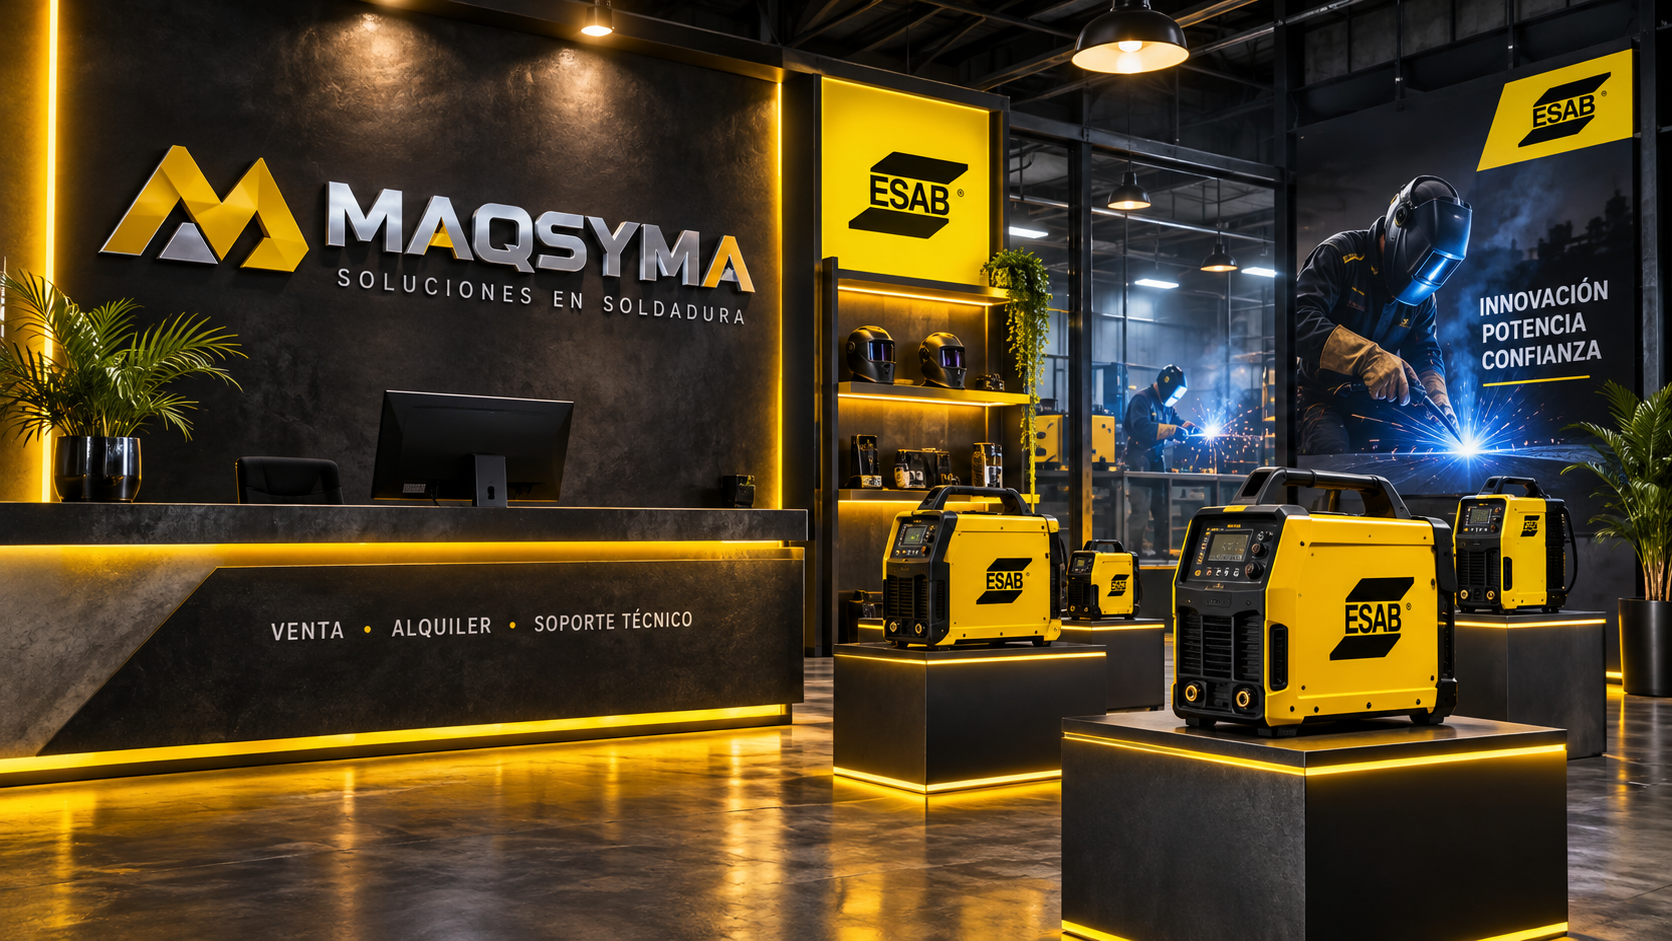
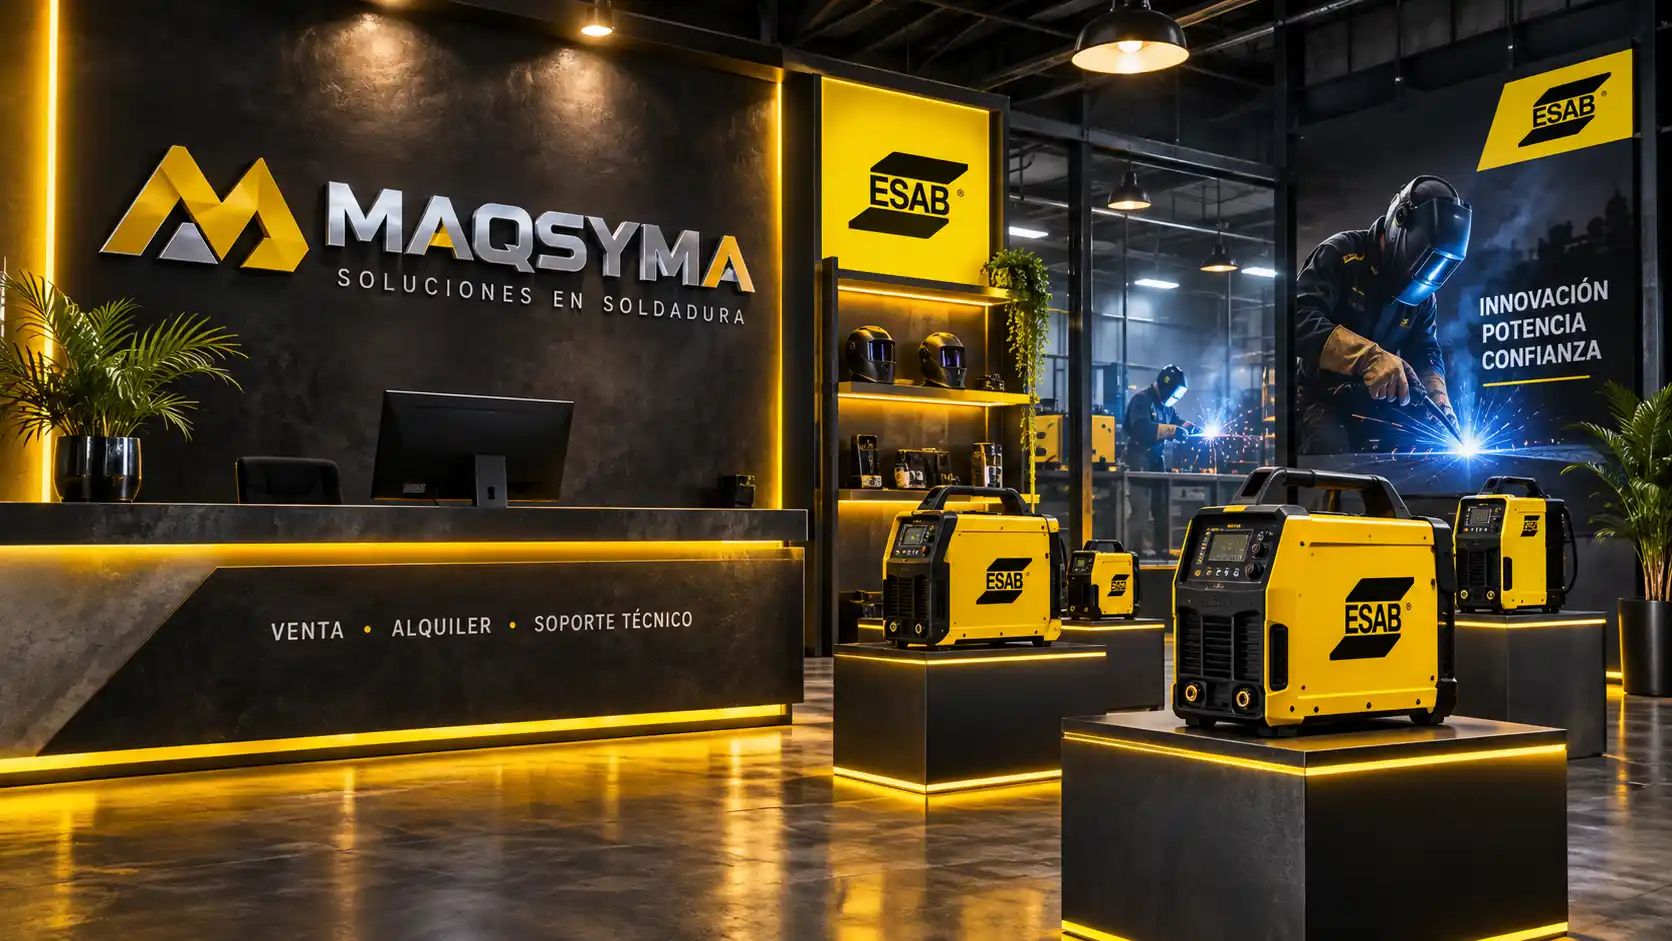
mejora landingpage

diff --git a/src/components/scenes/WorkshopExperience.tsx b/src/components/scenes/WorkshopExperience.tsx
@@ -1,7 +1,8 @@
 "use client";
 
 import React, { useRef, useEffect, useState, useCallback } from "react";
-import { scenes, Scene } from "@/config/scenes";
+import Image from "next/image";
+import { scenes } from "@/config/scenes";
 import { useSceneProgress } from "@/lib/scroll/useSceneProgress";
 import { applyScenes } from "@/lib/scroll/applyScenes";
 import { ScenePlaceholder } from "./ScenePlaceholder";
@@ -98,7 +99,31 @@ export const WorkshopExperience: React.FC = () => {
                 visibility: idx === 0 ? "visible" : "hidden",
               }}
             >
-              <ScenePlaceholder sceneId={scene.id} process={scene.process} />
+              {scene.image.placeholder ? (
+                <ScenePlaceholder sceneId={scene.id} process={scene.process} />
+              ) : (
+                <div className="relative w-full h-full">
+                  <Image
+                    src={scene.image.desktop}
+                    alt={scene.image.alt}
+                    fill
+                    priority={idx === 0}
+                    className="object-cover object-center"
+                    sizes="100vw"
+                  />
+                  {/* Overlay multinivel de alto contraste para máxima legibilidad tipográfica */}
+                  <div className="absolute inset-0 bg-gradient-to-t from-[var(--color-carbon)] via-[var(--color-carbon)]/70 to-[var(--color-carbon)]/85" />
+                  <div className="absolute inset-0 bg-black/35" />
+                  {/* Textura sutil técnica sobrepuesta */}
+                  <div
+                    className="absolute inset-0 opacity-[0.05] pointer-events-none"
+                    style={{
+                      backgroundImage: `radial-gradient(var(--color-plata) 1px, transparent 1px)`,
+                      backgroundSize: "28px 28px",
+                    }}
+                  />
+                </div>
+              )}
             </div>
           ))}
         </div>
@@ -123,53 +148,94 @@ export const WorkshopExperience: React.FC = () => {
                 className={`${
                   isJsReady
                     ? "absolute max-w-3xl w-full px-6 text-center will-change-transform will-change-opacity pointer-events-auto"
-                    : "relative p-8 rounded-xl bg-[var(--color-grafito)] border border-[var(--color-grafito-2)]"
+                    : "relative p-8 rounded-2xl bg-[var(--color-grafito)]/90 border border-[var(--color-grafito-2)]"
                 }`}
                 style={{
                   opacity: isJsReady ? (idx === 0 ? 1 : 0) : 1,
                   visibility: isJsReady ? (idx === 0 ? "visible" : "hidden") : "visible",
                 }}
               >
-                <div className="inline-flex items-center gap-2 px-3 py-1 rounded bg-[var(--color-grafito)]/80 border border-[var(--color-grafito-2)] text-xs text-[var(--color-oro-claro)] uppercase tracking-wider mb-3">
-                  <span className="w-1.5 h-1.5 rounded-full bg-[var(--color-oro)]" />
-                  {scene.label} · {scene.process}
-                </div>
-
-                <h2 className="font-['Montserrat',sans-serif] text-3xl sm:text-5xl font-extrabold tracking-tight text-[var(--color-plata)] leading-tight mb-4 drop-shadow-md">
-                  {scene.title}
-                </h2>
-
-                <p className="text-base sm:text-xl text-[var(--color-gris)] max-w-xl mx-auto leading-relaxed mb-6">
-                  {scene.text}
-                </p>
-
-                {scene.cta && (
-                  <div className="pt-2">
-                    <a
-                      href={whatsappUrl}
-                      target="_blank"
-                      rel="noopener noreferrer"
-                      className="inline-flex items-center gap-2 rounded-md bg-[var(--color-oro)] px-5 py-2.5 text-xs sm:text-sm font-bold text-[var(--color-carbon)] transition-all duration-200 hover:bg-[var(--color-oro-claro)] hover:shadow-[0_0_20px_rgba(201,162,74,0.3)] active:scale-95"
-                    >
-                      <span>{scene.cta.label}</span>
-                      <span>→</span>
-                    </a>
+                {/* Tarjeta con Glassmorphism oscuro técnico para contraste impecable */}
+                <div className="p-6 sm:p-10 rounded-2xl bg-[var(--color-carbon)]/85 sm:bg-[var(--color-carbon)]/75 backdrop-blur-md border border-[var(--color-grafito-2)]/90 shadow-2xl">
+                  {/* Píldora de estado con credibilidad técnica / ESAB */}
+                  <div className="inline-flex items-center gap-2 px-3.5 py-1.5 rounded-full bg-[var(--color-grafito)]/90 border border-[var(--color-grafito-2)] text-xs text-[var(--color-oro-claro)] uppercase tracking-wider mb-4 shadow-sm">
+                    <span className="w-2 h-2 rounded-full bg-[var(--color-oro)] animate-pulse" />
+                    <span className="font-semibold">{scene.label}</span>
+                    <span className="opacity-40">|</span>
+                    <span className="font-mono text-[11px] text-[var(--color-gris)]">{scene.process}</span>
+                    <span className="hidden sm:inline-flex items-center px-1.5 py-0.5 rounded bg-[var(--color-oro)]/15 text-[10px] font-bold text-[var(--color-oro)] ml-1 border border-[var(--color-oro)]/30">
+                      ESAB OFICIAL
+                    </span>
                   </div>
-                )}
+
+                  {/* Titular */}
+                  <h2 className="font-['Montserrat',sans-serif] text-3xl sm:text-5xl font-extrabold tracking-tight text-[var(--color-plata)] leading-tight mb-4 drop-shadow-lg">
+                    {scene.title}
+                  </h2>
+
+                  {/* Descripción técnica */}
+                  <p className="text-base sm:text-lg text-[var(--color-gris-claro,#d1d5db)] max-w-xl mx-auto leading-relaxed mb-6 font-normal">
+                    {scene.text}
+                  </p>
+
+                  {/* Badge de garantía de servicio rápido en Arequipa */}
+                  <div className="flex flex-wrap items-center justify-center gap-3 text-xs text-[var(--color-gris)] mb-6 font-mono">
+                    <span className="inline-flex items-center gap-1.5">
+                      <svg className="w-3.5 h-3.5 text-[var(--color-oro)]" fill="none" viewBox="0 0 24 24" stroke="currentColor">
+                        <path strokeLinecap="round" strokeLinejoin="round" strokeWidth={2} d="M5 13l4 4L19 7" />
+                      </svg>
+                      Disponibilidad Arequipa
+                    </span>
+                    <span>•</span>
+                    <span className="inline-flex items-center gap-1.5">
+                      <svg className="w-3.5 h-3.5 text-[var(--color-oro)]" fill="none" viewBox="0 0 24 24" stroke="currentColor">
+                        <path strokeLinecap="round" strokeLinejoin="round" strokeWidth={2} d="M13 10V3L4 14h7v7l9-11h-7z" />
+                      </svg>
+                      Soporte y Garantía
+                    </span>
+                  </div>
+
+                  {/* Botón CTA contextual por escena con WhatsApp */}
+                  {scene.cta ? (
+                    <div className="pt-1">
+                      <a
+                        href={whatsappUrl}
+                        target="_blank"
+                        rel="noopener noreferrer"
+                        className="inline-flex items-center gap-2.5 rounded-lg bg-[var(--color-oro)] px-6 py-3 text-sm font-bold text-[var(--color-carbon)] transition-all duration-200 hover:bg-[var(--color-oro-claro)] hover:shadow-[0_0_24px_rgba(201,162,74,0.45)] hover:-translate-y-0.5 active:translate-y-0 active:scale-98"
+                      >
+                        <span>{scene.cta.label}</span>
+                        <span className="transition-transform group-hover:translate-x-1">→</span>
+                      </a>
+                    </div>
+                  ) : (
+                    <div className="pt-1">
+                      <a
+                        href={`https://wa.me/${copy.contact.whatsappNumber}?text=${encodeURIComponent(copy.contact.defaultMessage)}`}
+                        target="_blank"
+                        rel="noopener noreferrer"
+                        className="inline-flex items-center gap-2 rounded-lg bg-[var(--color-grafito-2)] hover:bg-[var(--color-grafito)] border border-[var(--color-oro)]/40 px-6 py-3 text-sm font-semibold text-[var(--color-plata)] transition-all duration-200"
+                      >
+                        <span>Contactar Asesor Técnico</span>
+                        <span>→</span>
+                      </a>
+                    </div>
+                  )}
+                </div>
               </div>
             );
           })}
         </div>
 
-        {/* Indicador de progreso lateral / inferior interactivo y accesible */}
+        {/* Indicador de progreso lateral / inferior interactivo y accesible con etiquetas */}
         {isJsReady && (
           <aside
-            aria-label="Indicador de avance en el taller"
-            className="absolute z-20 bottom-8 sm:bottom-auto sm:right-8 sm:top-1/2 sm:-translate-y-1/2 flex sm:flex-col items-center justify-center gap-3 w-full sm:w-auto pointer-events-auto px-4"
+            aria-label="Navegación del taller"
+            className="absolute z-20 bottom-6 sm:bottom-auto sm:right-6 sm:top-1/2 sm:-translate-y-1/2 flex sm:flex-col items-center justify-center w-full sm:w-auto pointer-events-auto px-4"
           >
             <div
               ref={indicatorsRef}
-              className="flex sm:flex-col items-center gap-2.5 p-2 rounded-full bg-[var(--color-carbon)]/70 backdrop-blur-md border border-[var(--color-grafito-2)] shadow-xl"
+              className="flex sm:flex-col items-center gap-3 p-2.5 rounded-2xl sm:rounded-full bg-[var(--color-carbon)]/85 backdrop-blur-md border border-[var(--color-grafito-2)] shadow-2xl"
             >
               {scenes.map((scene, i) => (
                 <button
@@ -177,9 +243,16 @@ export const WorkshopExperience: React.FC = () => {
                   type="button"
                   onClick={() => handleJumpToScene(i)}
                   aria-label={`Saltar a escena ${i + 1}: ${scene.label}`}
-                  title={`${scene.label} (${scene.process})`}
-                  className="w-2.5 h-2.5 rounded-full bg-[var(--color-grafito-2)] transition-all duration-300 hover:scale-125 focus:outline-none focus:ring-2 focus:ring-[var(--color-oro)]"
-                />
+                  title={`${i + 1}. ${scene.label} (${scene.process})`}
+                  className="group relative flex items-center justify-center p-1 focus:outline-none focus:ring-2 focus:ring-[var(--color-oro)] rounded-full transition-transform"
+                >
+                  <span className="w-2.5 h-2.5 rounded-full bg-[var(--color-grafito-2)] transition-all duration-300 block" />
+
+                  {/* Tooltip lateral en hover para pantallas de escritorio */}
+                  <span className="hidden sm:block absolute right-full mr-3 px-2.5 py-1 text-xs font-medium text-[var(--color-plata)] bg-[var(--color-carbon)] border border-[var(--color-grafito-2)] rounded shadow-lg whitespace-nowrap opacity-0 pointer-events-none group-hover:opacity-100 transition-opacity">
+                    {i + 1}. {scene.label}
+                  </span>
+                </button>
               ))}
             </div>
           </aside>

diff --git a/src/config/scenes.ts b/src/config/scenes.ts
@@ -24,7 +24,7 @@ export const scenes: Scene[] = [
       desktop: "/scenes/entrada.webp",
       mobile: "/scenes/entrada-m.webp",
       alt: "Entrada del taller Maqsyma",
-      placeholder: true,
+      placeholder: false,
     },
   },
   {
@@ -37,7 +37,7 @@ export const scenes: Scene[] = [
       desktop: "/scenes/mig-mag.webp",
       mobile: "/scenes/mig-mag-m.webp",
       alt: "Zona de soldadura MIG/MAG",
-      placeholder: true,
+      placeholder: false,
     },
     cta: {
       label: "Cotizar equipos MIG/MAG",
